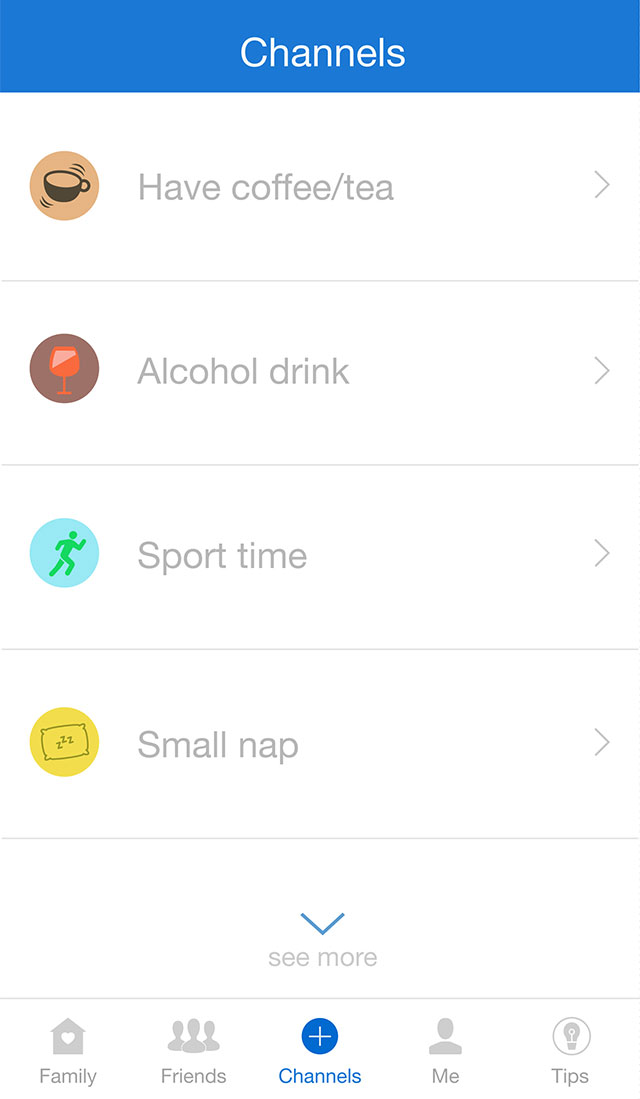
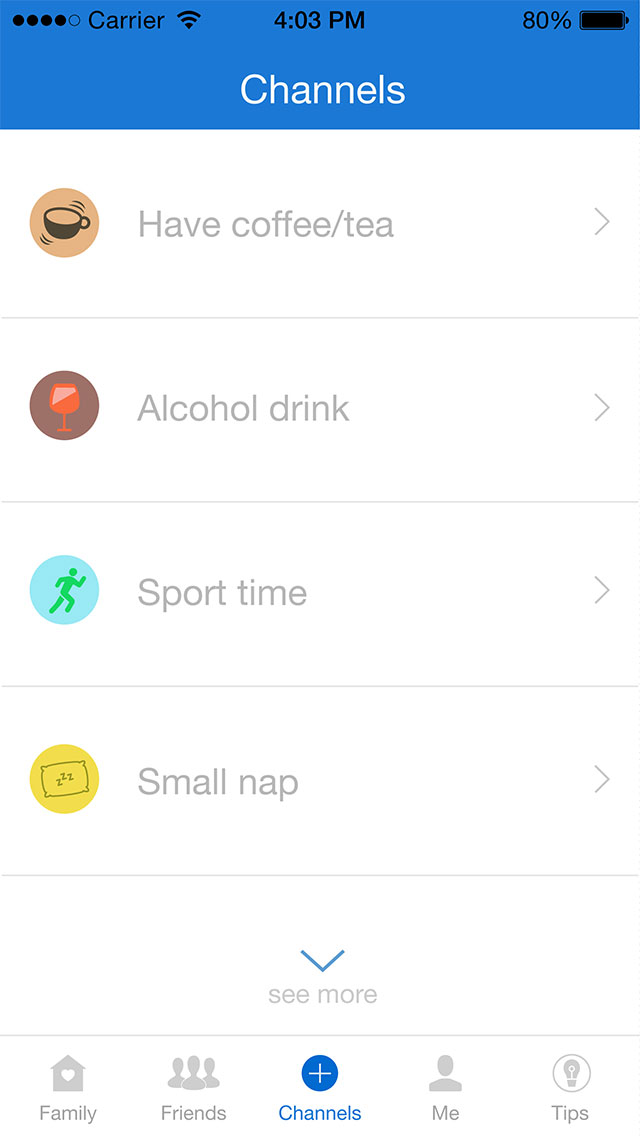
3.10

diff --git a/showcase/M22/main.css b/showcase/M22/main.css
@@ -1148,9 +1148,6 @@ html head + body .ui-body-a.ui-focus {
     .sensor, .home{
     	display: none;
     }
-     #bar{
-    	background: #016ad0;
-    }
 
 }
 
@@ -1165,16 +1162,8 @@ html head + body .ui-body-a.ui-focus {
 	z-index: 100;
 }
 
-#bar {
-	height: 18.5px;
-  	width: 320px;
-	background: no-repeat center center url("pics/2.jpg");
-  	background-size: cover;
-  	margin: 0 auto;
-}
-
 #channel {
-	height: 549.5px;
+	height: 568px;
   	width: 320px;
 	background: no-repeat center center url("pics/1.jpg");
   	background-size: cover;

diff --git a/showcase/M22/demo.html b/showcase/M22/demo.html
@@ -23,7 +23,6 @@
 		</div>
 	</div>
 	<div id="screen-content">
-		<div id="bar"></div>
 		<div id="channel"></div>
 		
 	</div>
